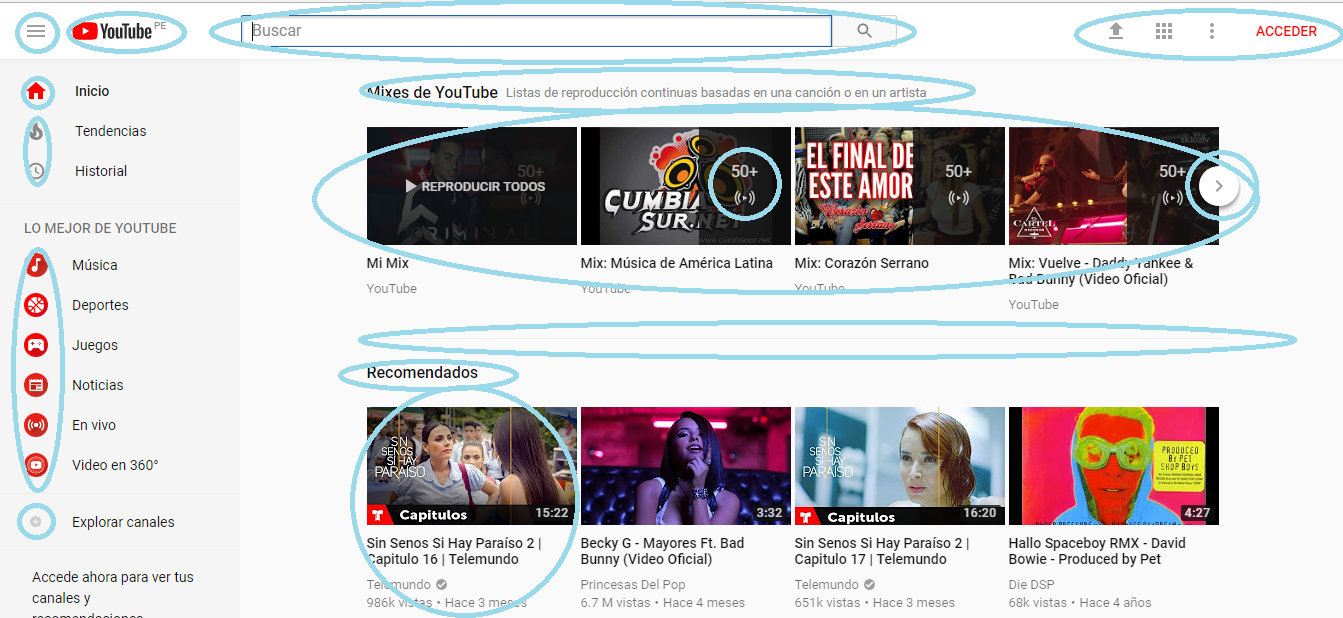
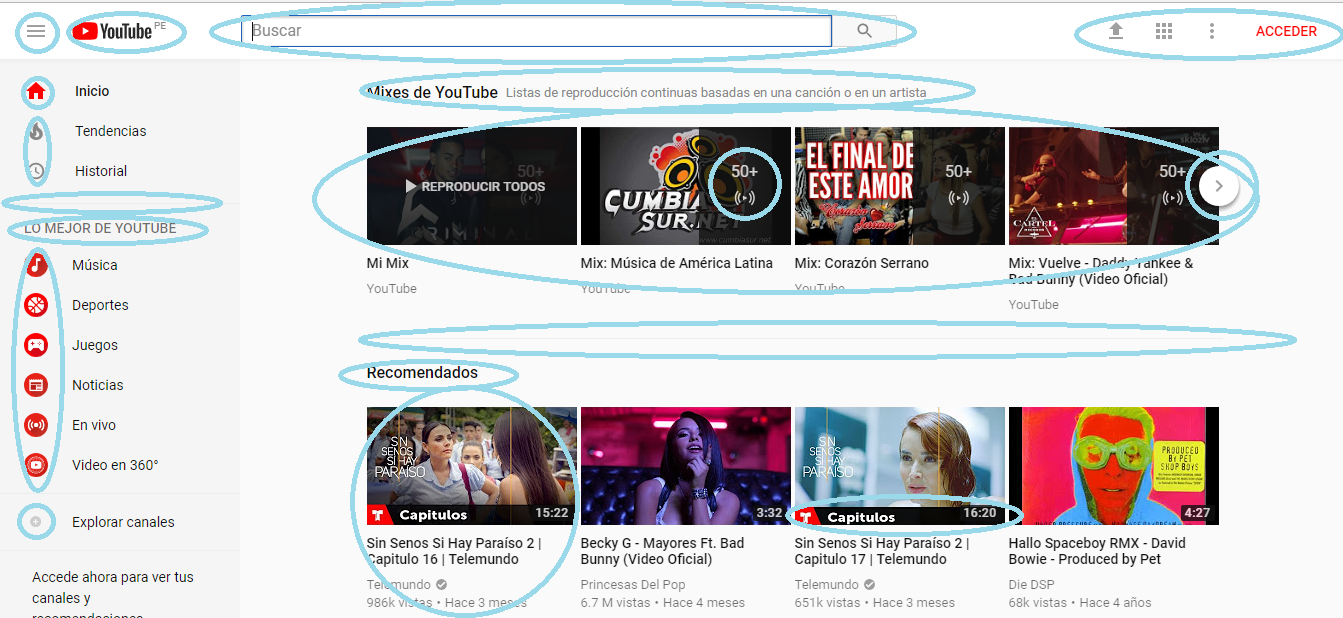
ui elementos pagina de inicio

Changed region(s): [[0.0, 0.3074, 0.1832, 0.3997], [0.58, 0.7994, 0.7632, 0.8916]]

diff --git a/README.md b/README.md
@@ -9,7 +9,9 @@
 
    * Elegir una página web, en este caso Youtube, y explicar que partes conforman el UX y qué partes el UI.
 
-* Partes de UI
+## Partes de UI
+
+  ### Página de inicio
   
   * Color del background del body. 
 
@@ -21,9 +23,13 @@
 
   * "50+" y su ícono respectivo.  
 
+  * Los estilos de títulos y subtítulos.
+
+  * Estilos de la indicación de minutos.
+
   * El estilo de poner el nombre del video en negritas, color negro y mayor tamaño. 
 
-  *La información adicional de los videos en letras normales y de color gris. 
+  * La información adicional de los videos en letras normales y de color gris. 
 
   * Que la palabra "Acceder" se roja. 
 
@@ -40,4 +46,4 @@
   ![UI-Youtube](assets/img/youtube.PNG)
 
 
-* Partes de UX 
+## Partes de UX 
